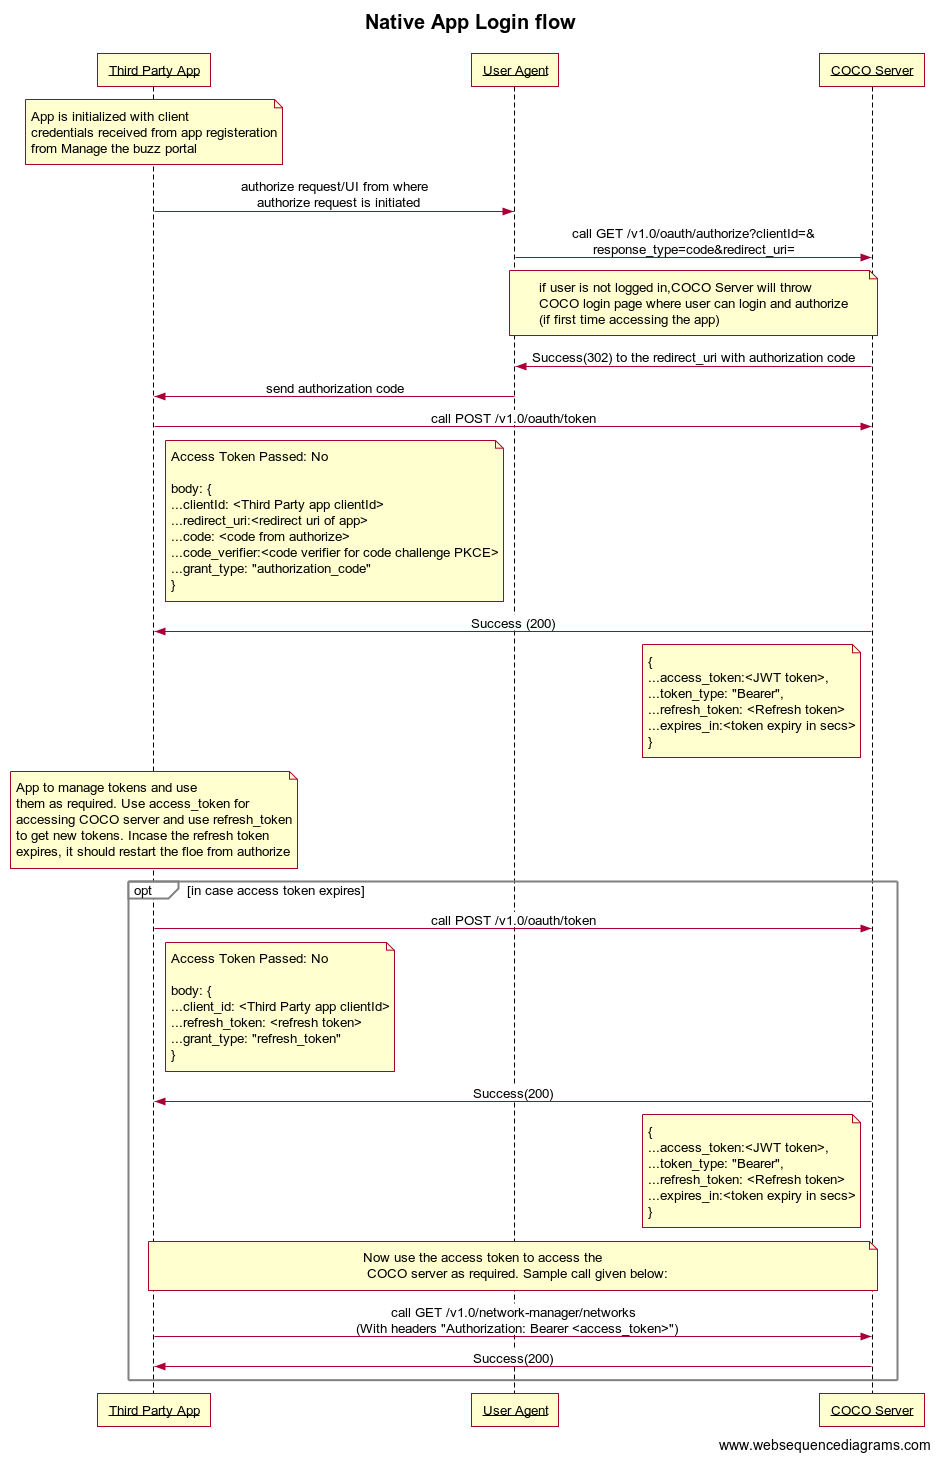
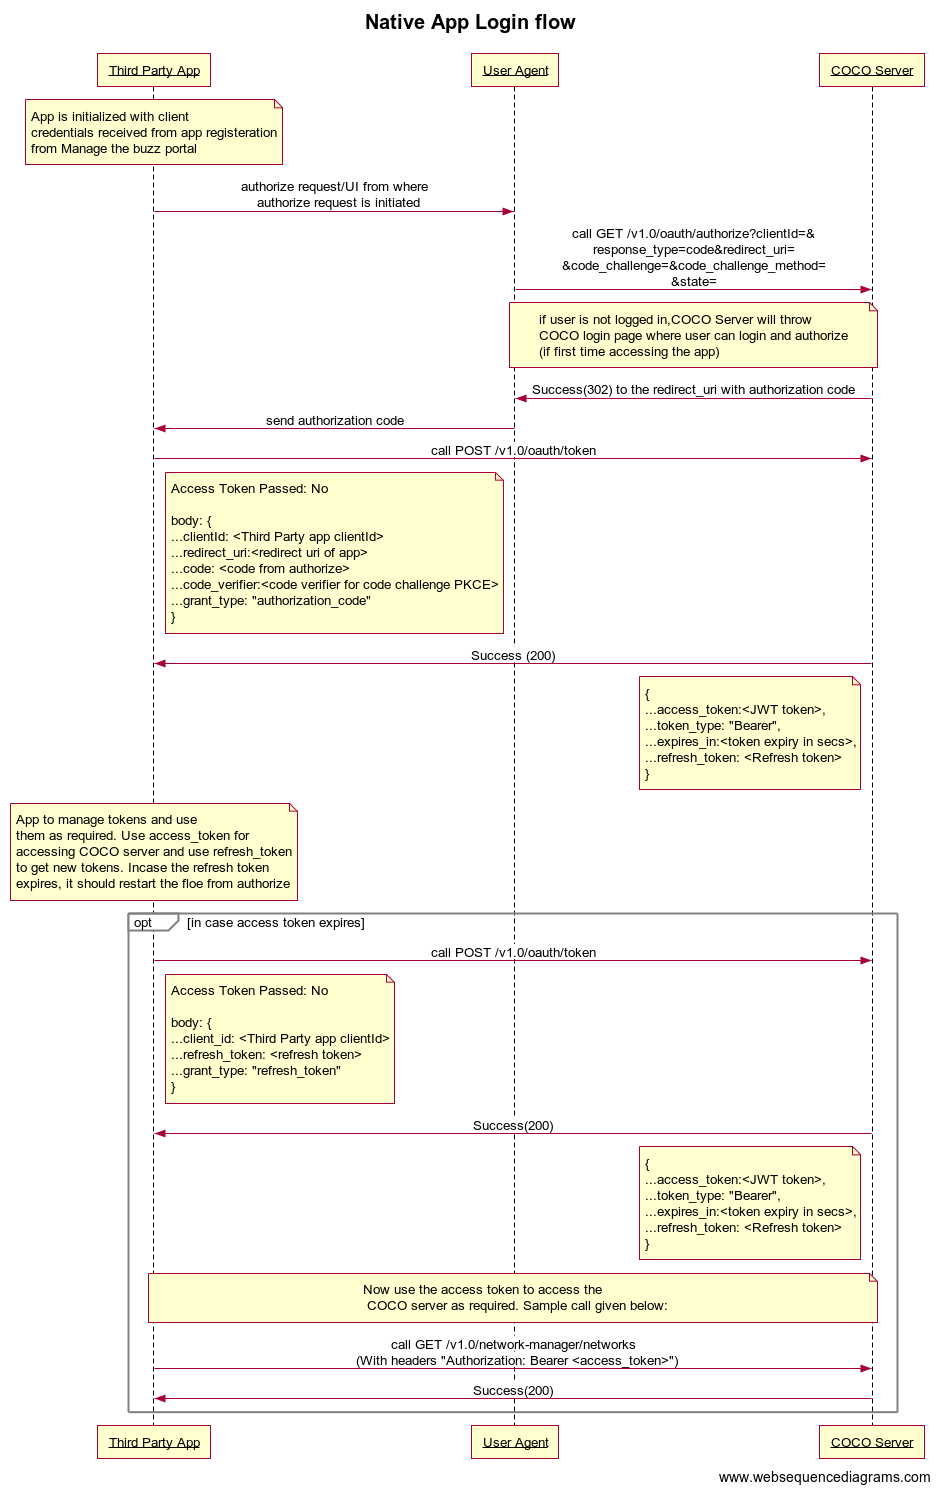
Updated code

diff --git a/source/manage_the_buzz_for_developers/applications_and_user_system_manage_the_buzz/value_added_service_extensions_for_coco_solutions/native_apps/quick_start_guide_native_apps.rst b/source/manage_the_buzz_for_developers/applications_and_user_system_manage_the_buzz/value_added_service_extensions_for_coco_solutions/native_apps/quick_start_guide_native_apps.rst
@@ -14,22 +14,26 @@ Register Application
 
 
 4. For grouping of applications, select existing app group or create a new one.
-5. By default all the capabilities are selected, choose capabilities required for application.
+5. Choose capabilities required for application.
 6. Redirect URI is the URL where the authorization code should be received once the user authorizes which will further be exchanged, along with client credentials, using the token API
-7. Call COCO authorize API with client Id with response_type = code in the Native app.
+7. We have SDKs for Android and IOS platforms. You can refer to the documentation here:
+8. Call COCO authorize API with client Id with response_type = code in the Native app.
    
    Authorize endpoint: GET https://api.getcoco.buzz/v1.0/oauth/authorize and takes the below query params.
 
 
-=============  ==================================================================================
-Params         Description
-=============  ==================================================================================
-client_id      Client Id of your application, you can find this value in application details.
-redirect_uri   Redirect URI of your application
-response_type  OAuth 2.0 endpoint returns an authorization code or token. Set it to ``code``.
-=============  ==================================================================================
+=====================  ======================================================================================
+Params                 Description
+=====================  ======================================================================================
+client_id              Client Id of your application, you can find this value in application details.
+redirect_uri           Redirect URI of your application
+response_type          OAuth 2.0 endpoint returns an authorization code or token. Set it to ``code``.
+code_challenge         It is a Base64-URL-encoded string of the SHA256 hash of the code verifier.
+code_challenge_method  Either plain or S256 based on whether challenge is plain verifier string/SHA256 hash
+state                  Random string generated by yor application to verify later
+=====================  ======================================================================================
 
-8. Call COCO token API with client credentials and grant type as authorization_code and the code received in the authorize call to get the access/refresh tokens to access coco cloud
+9. Call COCO token API with client credentials and grant type as authorization_code and the code received in the authorize call to get the access/refresh tokens to access coco cloud
    
    Token endpoint: POST https://api.getcoco.buzz/v1.0/oauth/token and takes the below params.
 
@@ -39,7 +43,7 @@ Params         Description
 =============  ==================================================================================
 client_id      Client Id of your application, you can find this value in application details.
 redirect_uri   Redirect URI of your application
-grant_type     Oauth2.0 grant type ``authorization_code``   
+grant_type     OAuth2.0 grant type ``authorization_code``
 code           Code obtained from authorize request
 code_verifier  Code verifier for code challenge PKCE
 =============  ==================================================================================
@@ -51,7 +55,7 @@ Params         Description
 =============  ==================================================================================
 client_id      Client Id of your application, you can find this value in application details.
 refresh_token  Refresh token
-grant_type     Oauth2.0 grant type ``refresh_token``
+grant_type     OAuth2.0 grant type ``refresh_token``
 =============  ==================================================================================
 
 

diff --git a/source/manage_the_buzz_for_developers/applications_and_user_system_manage_the_buzz/value_added_service_extensions_for_coco_solutions/cloud_to_cloud_apps/quick_start_guide_cloud_to_cloud_apps.rst b/source/manage_the_buzz_for_developers/applications_and_user_system_manage_the_buzz/value_added_service_extensions_for_coco_solutions/cloud_to_cloud_apps/quick_start_guide_cloud_to_cloud_apps.rst
@@ -13,10 +13,10 @@ Register Application
 .. image:: ../../../../_static/c2cApp.png
 
 
-1. For grouping of applications, select existing app group or create a new one.
-2. By default all the capabilities are selected and is non editable.
-3. Redirect URI is the URL where the authorization code should be received once the user authorizes which will further be exchanged, along with client credentials, using the token API
-4. Call COCO authorize API with client Id with response_type = code in the c2c app.
+4. For grouping of applications, select existing app group or create a new one.
+5. By default all the capabilities are selected and is non editable.
+6. Redirect URI is the URL where the authorization code should be received once the user authorizes which will further be exchanged, along with client credentials, using the token API
+7. Call COCO authorize API with client Id with response_type = code in the c2c app.
    
    Authorize endpoint: GET https://api.getcoco.buzz/v1.0/oauth/authorize and takes the below query params.
 
@@ -29,7 +29,7 @@ redirect_uri   Redirect URI of your application
 response_type  OAuth 2.0 endpoint returns an authorization code or token. Set it to ``code``.
 =============  ==================================================================================
 
-1. Call COCO token API with client credentials and grant type as authorization_code and the code received in the authorize call to get the access/refresh tokens to access coco cloud
+8. Call COCO token API with client credentials and grant type as authorization_code and the code received in the authorize call to get the access/refresh tokens to access coco cloud
    
    Token endpoint: POST https://api.getcoco.buzz/v1.0/oauth/token and takes the below params.
 
@@ -39,7 +39,7 @@ Params         Description
 =============  ==================================================================================
 client_id      Client Id of your application, you can find this value in application details.
 client_secret  Client secret of the application, you can find this value in application details.
-grant_type     Oauth2.0 grant type ``authorization_code``   
+grant_type     OAuth2.0 grant type ``authorization_code``
 code           Code obtained from authorize request
 =============  ==================================================================================
 
@@ -50,7 +50,7 @@ End User Flow
 1. User logs in with COCO using his credentials
 2. Authorization page is displayed with the list of app capabilities for the end user to authorize
 
-.. image:: ../../../../_static/authorize.png
+.. image:: ../../../../_static/authorizeC2C.png
 
 3. Once the User successfully authorizes, the application will be receiving the users access/refresh tokens to access
    the end users COCO Account and access the users COCONets and control/query the resources of the COCONets.
@@ -58,8 +58,7 @@ End User Flow
 
 .. note:: 
 
-   C2C apps can only control existing resources on COCONets.
-   Example: It can only execute/read the resource information on COCONet.
+   C2C apps can only access COCONets. It can only execute/read the resource information on COCONet.
 
 
 .. sectionauthor:: Narendra

diff --git a/source/manage_the_buzz_for_developers/applications_and_user_system_manage_the_buzz/value_added_service_extensions_for_coco_solutions/single_page_apps/quick_start_guide_single_page_apps.rst b/source/manage_the_buzz_for_developers/applications_and_user_system_manage_the_buzz/value_added_service_extensions_for_coco_solutions/single_page_apps/quick_start_guide_single_page_apps.rst
@@ -34,14 +34,17 @@ response_type  OAuth 2.0 endpoint returns an authorization code or token. Set it
    **Using Client Library**
    
    We have created a client library for simplifying developers work.
-   Include https://static-assets.getcoco.buzz/scripts/sdk.min.js in your index.html.
-1. Use Coco.init() and Coco.login() to initiate login with COCO
-2. Use Coco.api() to access COCO APIs as the management of the access tokens are taken care by the above library
-3. Use Coco.logout() to clear the tokens managed by the library, when the user logs out of the application
+   Include https://static-assets.getcoco.buzz/scripts/sdk.min.js in your application.
+1. Use Coco.init() to initialize application.
+2. Use Coco.login() to initiate login with COCO
+3. Use Coco.api() to access COCO APIs as the management of the access tokens are taken care by the above library
+4. Use Coco.logout() to clear the tokens managed by the library, when the user logs out of the application
 
 
 .. code:: javascript
 
+    // include sdk in Application
+    <script src="https://static-assets.getcoco.buzz/scripts/sdk.min.js"></script>
 
     // init application
     Coco.init({
@@ -49,13 +52,13 @@ response_type  OAuth 2.0 endpoint returns an authorization code or token. Set it
         redirect_uri: "http://localhost8000", // optional
         accessTokenExpiringNotificationTime: 300, // optional
       }).then(() => { 
-        console.log('Coco init API completed.');
+        // Other initializations
       }).catch((err) => {
-        console.log('Error Occurred');
+        // Error handling
       });
 
     // login
-    Coco.login()
+    Coco.login() // returns promise
 
     // access COCO APIs
     Coco.api({
@@ -67,18 +70,14 @@ response_type  OAuth 2.0 endpoint returns an authorization code or token. Set it
       "responseType": "json",
     }).then(
       data => {
-        return data;
+        // handle data
       },
       error => {
-        if (error.response) {
-          var err = error.response['error']['message'];
-          console.log('Error Occurred, err);
-        }
-        return error;
+        // error handling
     });
 
     // logout
-    Coco.logout()
+    Coco.logout() // returns promise
 
 
 .. tip::
@@ -92,16 +91,15 @@ End User Flow
 1. User logs in with COCO using his credentials
 2. Authorization page is displayed with the list of app capabilities for the end user to authorize
 
-.. image:: ../../../../_static/authorize.png
+.. image:: ../../../../_static/authorizeSPA.png
 
-3. Once the User successfully authorizes, the application will be receiving the users access/refresh tokens to access
+3. Once the User successfully authorizes, the application will be receiving the users access tokens to access
    the end users COCO Account and access the users COCONets and control/query the resources of the COCONets.
 
 
 .. note:: 
 
-   SPA apps can only control existing resources on COCONets.
-   Example: It can only execute/read the resource information on COCONet.
+   SPA apps can only control existing resources on COCONets.It can only execute/read the resource information on COCONet.
 
 
 .. sectionauthor:: Narendra

diff --git a/source/manage_the_buzz_for_developers/applications_and_user_system_manage_the_buzz/custom_solution_for_self_managed_user_system/quick_start_guide_service_apps.rst b/source/manage_the_buzz_for_developers/applications_and_user_system_manage_the_buzz/custom_solution_for_self_managed_user_system/quick_start_guide_service_apps.rst
@@ -24,13 +24,13 @@ Params         Description
 =============  ==================================================================================
 client_id      Client Id of your application, you can find this value in application details.
 client_secret  Client secret of your application, you can find this value in application details.    
-grant_type     Oauth2.0 grant type. Set it to ``client_credentials``
+grant_type     OAuth2.0 grant type. Set it to ``client_credentials``
 =============  ==================================================================================
 
 
 .. note:: 
    An example service app, where third party users are managed by COCO system to keep track of respective COCONets is available at https://github.com/elear-solutions/nodesampletokenserver.git
 
-   Service app can control all the actions on the COCONets.
+   Service apps have access to all API's of COCO including managing COCONets.
 
 .. sectionauthor:: Narendra

diff --git a/source/manage_the_buzz_for_developers/applications_and_user_system_manage_the_buzz/custom_solution_for_self_managed_user_system/introduction_to_service_apps.rst b/source/manage_the_buzz_for_developers/applications_and_user_system_manage_the_buzz/custom_solution_for_self_managed_user_system/introduction_to_service_apps.rst
@@ -2,13 +2,13 @@
 
 Introduction to Service Apps
 ============================
-Service Apps are used in scenarios:
+Applications that have long-running processes or that operate without interaction with a user also need a way to access secured resources.
+For this OAuth 2.0 Client Credentials grant flow is used.
+
+They are used in the following scenarios:
 
 1. Where you are providing your own user management system and bypass the COCO User management system
 2. Where you are developing an application or integration that does not require authorization from a specific COCO user.
-
-Apps that have long-running processes or that operate without interaction with a user also need a way to access secured resources.
-This uses Oauth Client Credentials grant flow.
 
 Flow
 ++++

diff --git a/source/manage_the_buzz_for_developers/applications_and_user_system_manage_the_buzz/value_added_service_extensions_for_coco_solutions/native_apps/introduction_to_native_apps.rst b/source/manage_the_buzz_for_developers/applications_and_user_system_manage_the_buzz/value_added_service_extensions_for_coco_solutions/native_apps/introduction_to_native_apps.rst
@@ -3,11 +3,11 @@
 Introduction
 ============
 
-If your intent is to utilise coco data without writing backend code,
+Native Applications without your backend code,
 you can use this category of applications, where you need to only write
 application client code.
 These are Native applications which cannot store secrets
-and uses the Oauth Authorization Code grant with PKCE flow.
+and uses the OAuth 2.0 Authorization Code grant with PKCE flow.
 
 Flow
 ----

diff --git a/source/manage_the_buzz_for_developers/applications_and_user_system_manage_the_buzz/value_added_service_extensions_for_coco_solutions/single_page_apps/introduction_to_single_page_apps.rst b/source/manage_the_buzz_for_developers/applications_and_user_system_manage_the_buzz/value_added_service_extensions_for_coco_solutions/single_page_apps/introduction_to_single_page_apps.rst
@@ -6,7 +6,7 @@ Introduction
 If your intent is to utilise coco data without writing backend code,
 you can use this category of applications, where you need to only write
 front-end browser client code. These Browser based applications cannot
-store secrets and uses the Oauth Implicit grant flow. Here,
+store secrets and uses the OAuth 2.0 Implicit grant flow. Here,
 COCO APIs are allowed access only while the user is present at the application.
 
 Flow

diff --git a/source/manage_the_buzz_for_developers/applications_and_user_system_manage_the_buzz/value_added_service_extensions_for_coco_solutions/cloud_to_cloud_apps/introduction_to_cloud_to_cloud_apps.rst b/source/manage_the_buzz_for_developers/applications_and_user_system_manage_the_buzz/value_added_service_extensions_for_coco_solutions/cloud_to_cloud_apps/introduction_to_cloud_to_cloud_apps.rst
@@ -4,7 +4,7 @@ Introduction
 ============
 
 These are Web server based applications which can
-store secrets and use the Oauth Authorization Code grant
+store secrets and use the OAuth 2.0 Authorization Code grant
 flow. A properly authorized web server application can access
 an API while the user interacts with the application and continue
 to work even after the user has left the application.
